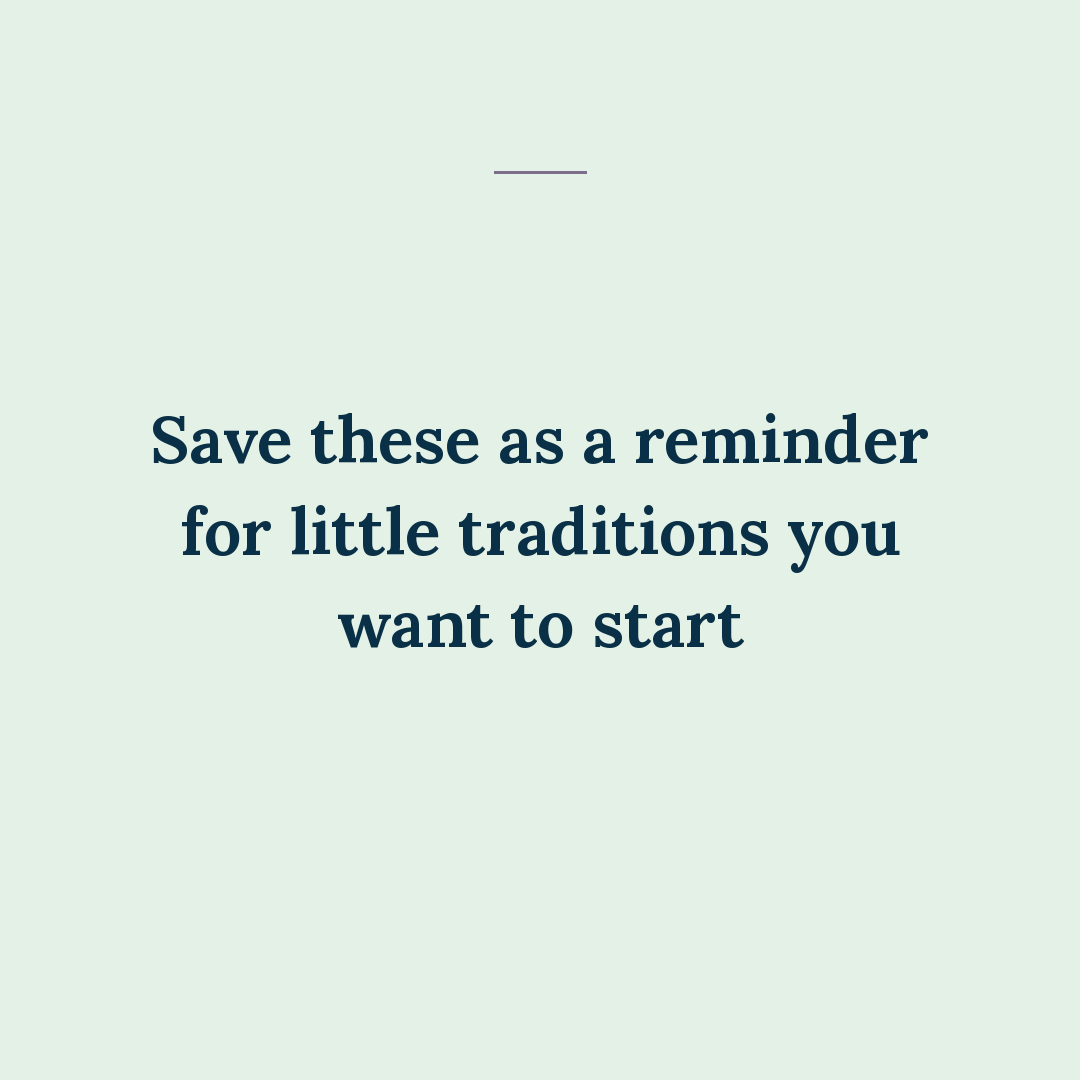
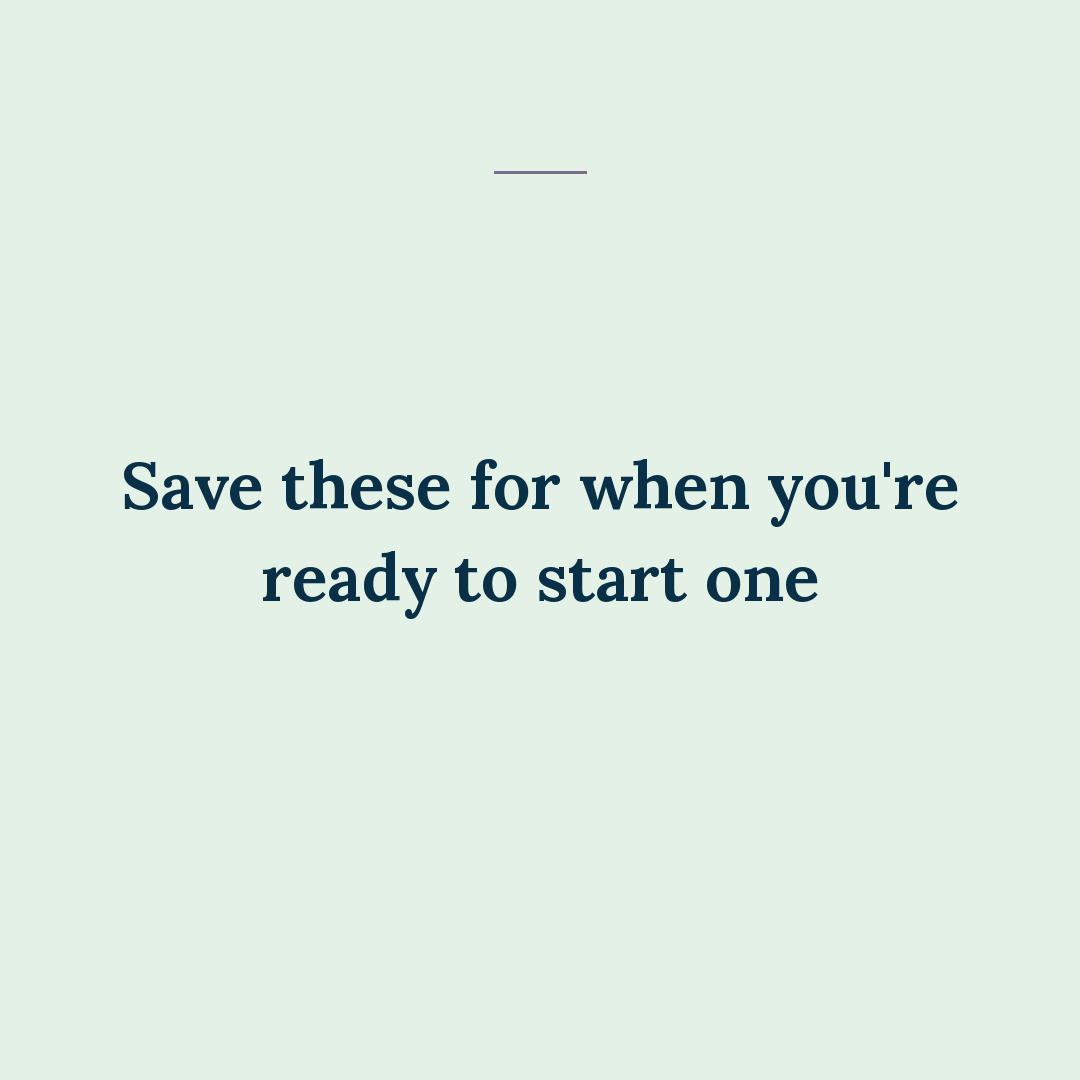
Add trad-02-weekly-traditions-that-cost-nothing (TRAD 02 - Weekly Traditions That Cost Nothing)

Changed region(s): [[0.0917, 0.3667, 0.8861, 0.6111]]

diff --git a/posts/trad-02-weekly-traditions-that-cost-nothing/slides.md b/posts/trad-02-weekly-traditions-that-cost-nothing/slides.md
@@ -13,7 +13,12 @@ Format: carousel · bg eucalyptus #E4F1E6 · lane Tradition · engine 2 · weekl
 05  Mail a handwritten (or colored) letter together every Monday
 
 ## Closer (save)
-Save these as a reminder for little traditions you want to start
+Save these for when you're ready to start one
+
+CLOSER REWRITTEN 2026-08-16, audit pass. The old line — *"Save these as a reminder for little
+traditions you want to start"* — was clunky ("a reminder FOR traditions") and restated the cover's
+own noun. This is the brief's own suggested Save card line (§5), lightly adapted for a five-item
+post. Unlike 55/57/58/59, this closer was never Ben's wording, so it was fair to change.
 
 Render with render_cover / render_items_for_post / render_follow (render_save alias), weight 650, bg BG_EUCA, NO credibility byline.
 REVISED 2026-08-16 per Ben's review: item 05 swapped from "fresh sheets on Sunday night" to the letter-mailing item.
